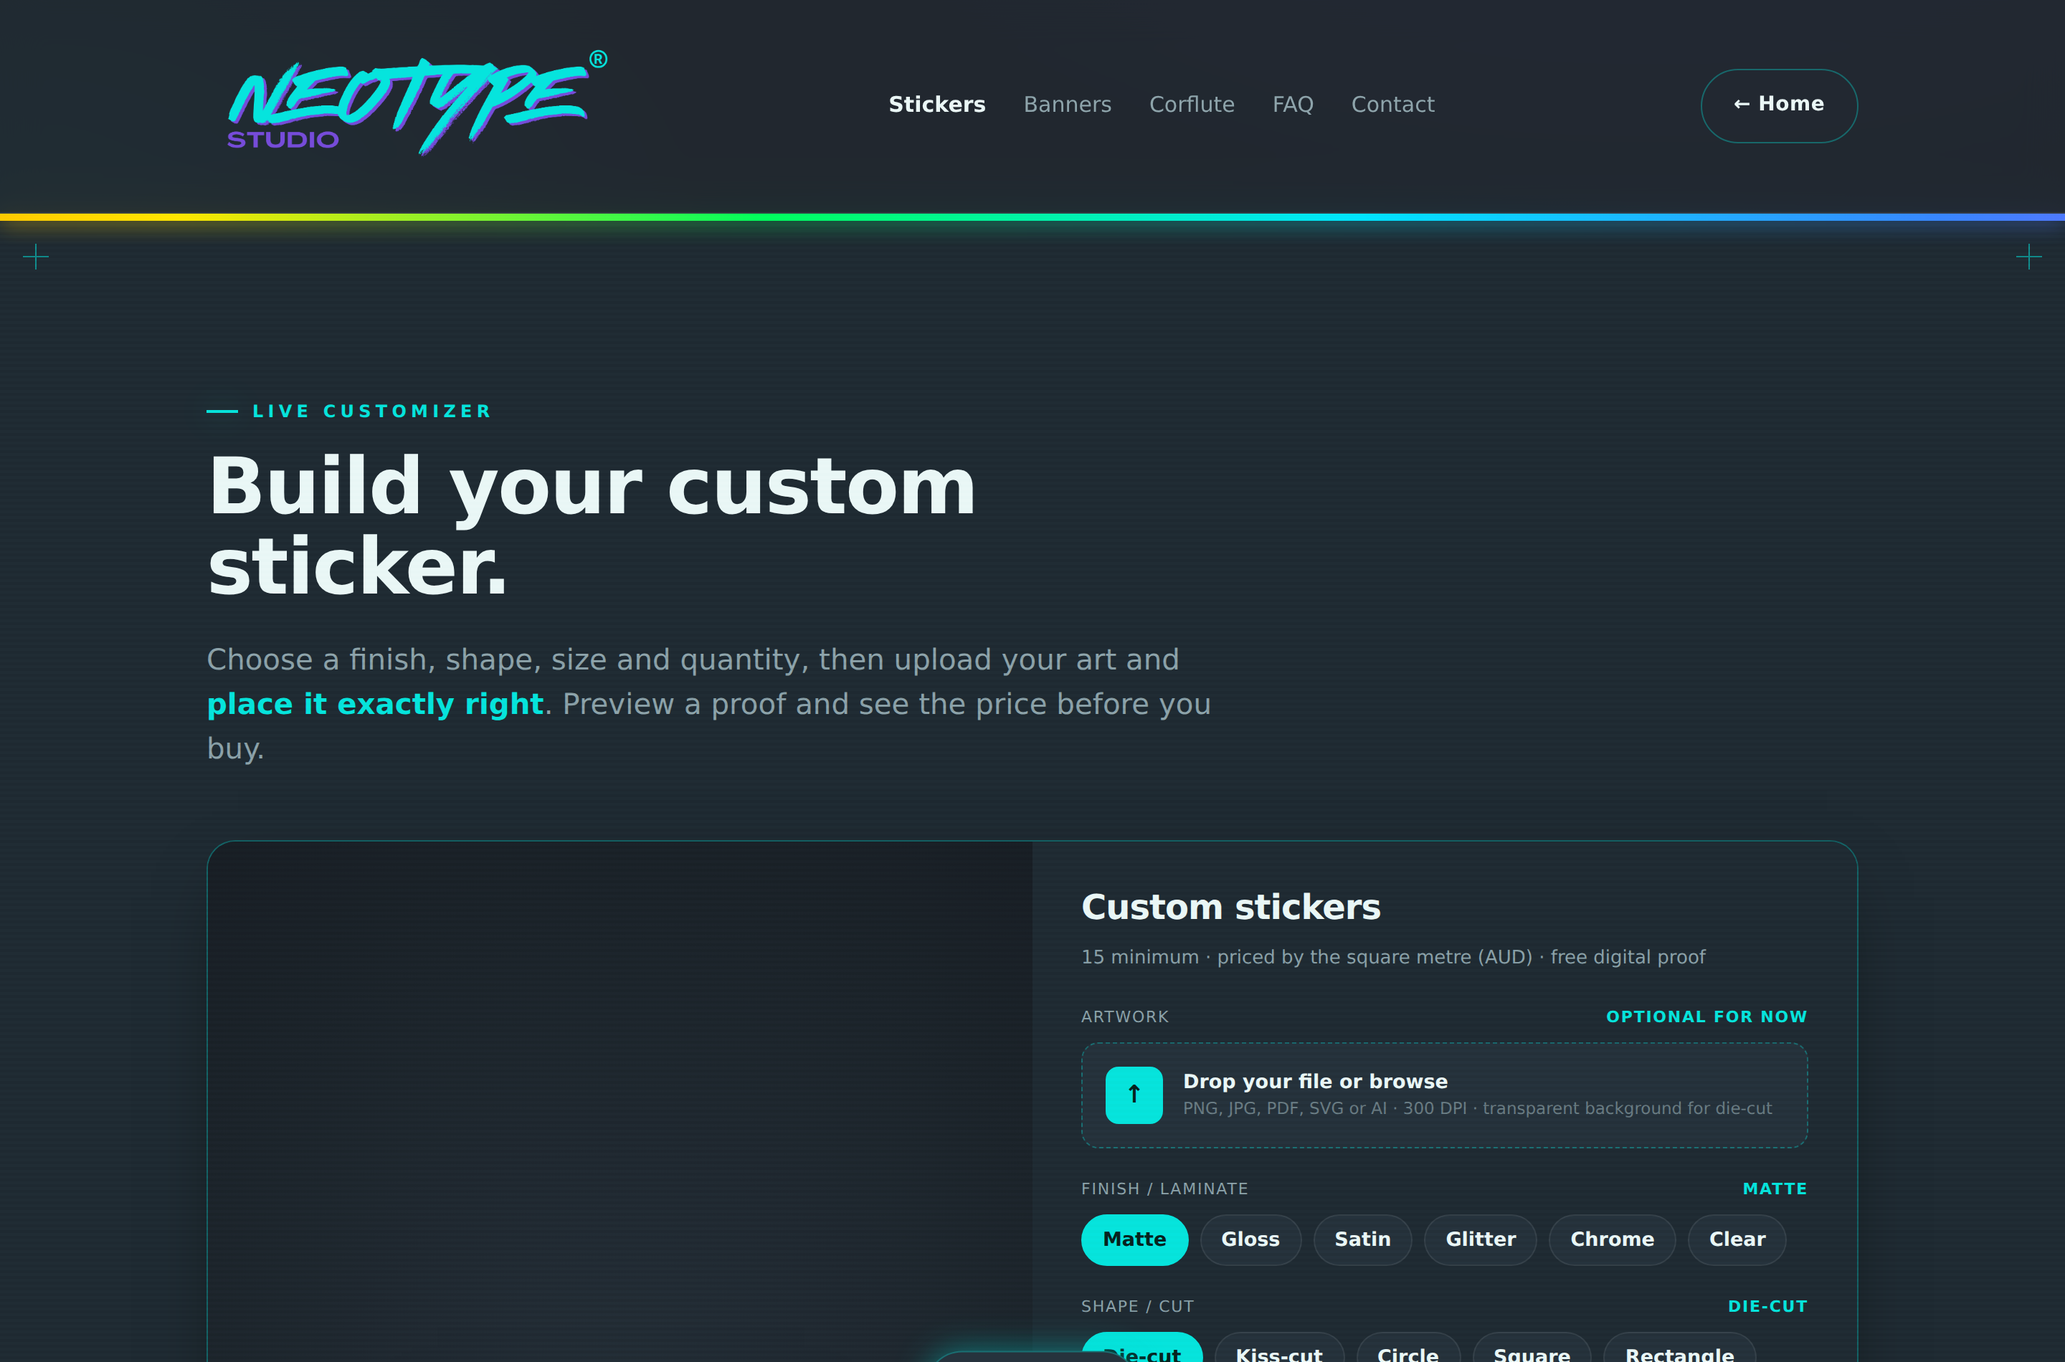
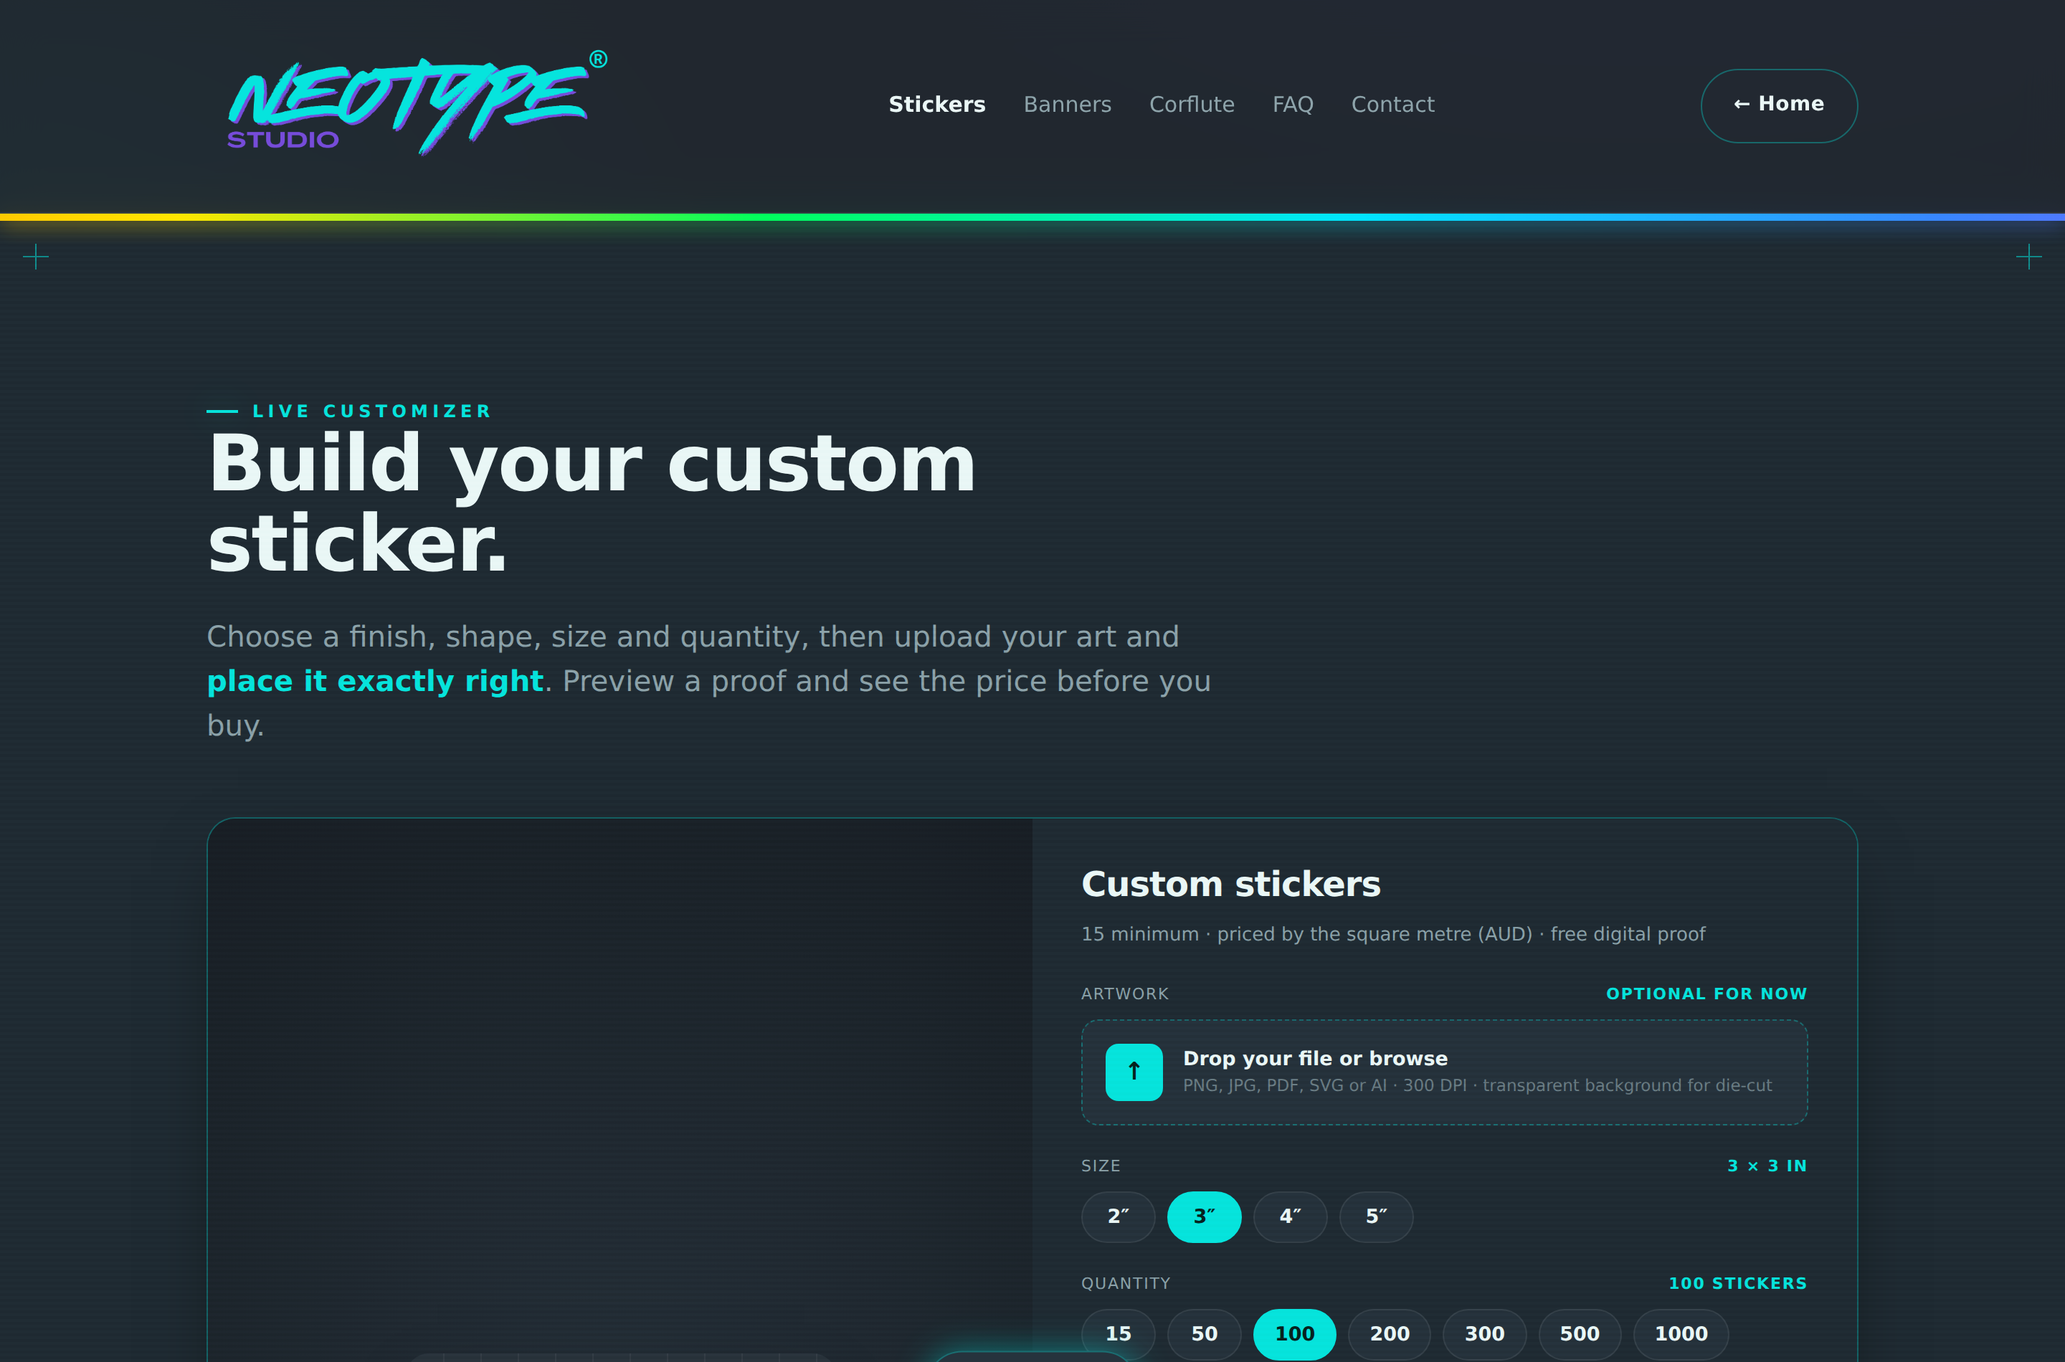
Reorder the customizer, and fix what a sweep of every page found
Field order. Ian asked for "size, qty, finishes" and the builder still led
with finish and shape. A customer arrives knowing they want 100 three-inch
stickers; the finish is what they browse once the price is on screen. Now:
artwork, size, quantity, finish, shape, background, turnaround.

Then a pass over every public page, desktop and phone, which turned up
things that look fine in a screenshot and are not:

  - The three builder pages had NO h1. Their main heading was an h2, so
    every one of them was a page with no top-level heading at all.
  - Ten colour swatches on the customizer were named only by title=, the
    weakest accessible name there is and invisible on touch. They now carry
    aria-label.
  - Both file inputs and the banner/corflute width and height boxes had no
    accessible name whatsoever — the two number fields that decide the size
    of a six-metre banner announced as nothing.
  - index.html's title was "Custom Stickers Brisbane | Die-Cut Vinyl
    Printing - Neotype Studio" and the landing page built to win that exact
    phrase was "Custom Stickers Brisbane - Die-Cut Vinyl Printing | Neotype
    Studio". Two pages competing for one phrase is worse than either
    ranking alone, so the homepage now leads with the brand and the full
    product range, with a description to match.
  - success.html relied on robots.txt alone. Disallow stops the crawl but
    not a URL-only listing for a page someone links to, so it now carries
[…]

diff --git a/customizer.html b/customizer.html
@@ -68,7 +68,7 @@
       <div class="wrap">
         <div class="section-head" style="max-width:720px">
           <span class="eyebrow">Live customizer</span>
-          <h2 class="display-lg" id="cz-h">Build your custom sticker.</h2>
+          <h1 class="display-lg" id="cz-h">Build your custom sticker.</h1>
           <p class="lead">Choose a finish, shape, size and quantity, then upload your art and <b class="tint-teal">place it exactly right</b>. Preview a proof and see the price before you buy.</p>
         </div>
 
@@ -100,8 +100,8 @@
               <div class="ce-row" id="ceBorderColorRow" hidden>
                 <label>Cut colour</label>
                 <div class="ce-swatches" id="borderColorOpts">
-                  <button class="ce-sw" data-bcol="#ffffff" aria-pressed="true" title="White border" style="background:#fff"></button>
-                  <button class="ce-sw" data-bcol="#111318" aria-pressed="false" title="Black border" style="background:#111318"></button>
+                  <button class="ce-sw" data-bcol="#ffffff" aria-pressed="true" title="White border" style="background:#fff" aria-label="White border"></button>
+                  <button class="ce-sw" data-bcol="#111318" aria-pressed="false" title="Black border" style="background:#111318" aria-label="Black border"></button>
                 </div>
               </div>
               <div class="ce-row">
@@ -143,8 +143,37 @@
                   <small>PNG, JPG, PDF, SVG or AI · 300 DPI · transparent background for die-cut</small>
                   <div class="dz-file" id="dzFile" hidden></div>
                 </span>
-                <input type="file" id="fileInput" accept=".png,.jpg,.jpeg,.pdf,.svg,.ai" hidden />
+                <input type="file" id="fileInput" accept=".png,.jpg,.jpeg,.pdf,.svg,.ai" aria-label="Upload your artwork" hidden />
               </div>
+            </div>
+
+            <div class="field">
+              <label>Size <b id="czSizeVal">3 × 3 in</b></label>
+              <div class="opt-row" id="sizeOpts" role="group" aria-label="Size">
+                <button class="opt sz" data-size="2" aria-pressed="false">2″</button>
+                <button class="opt sz" data-size="3" aria-pressed="true">3″</button>
+                <button class="opt sz" data-size="4" aria-pressed="false">4″</button>
+                <button class="opt sz" data-size="5" aria-pressed="false">5″</button>
+              </div>
+            </div>
+
+            <div class="field">
+              <label>Quantity <b id="czQtyVal">100 stickers</b></label>
+              <div class="opt-row" id="qtyOpts" role="group" aria-label="Quantity">
+                <button class="opt sz" data-qty="15" aria-pressed="false">15</button>
+                <button class="opt sz" data-qty="50" aria-pressed="false">50</button>
+                <button class="opt sz" data-qty="100" aria-pressed="true">100</button>
+                <button class="opt sz" data-qty="200" aria-pressed="false">200</button>
+                <button class="opt sz" data-qty="300" aria-pressed="false">300</button>
+                <button class="opt sz" data-qty="500" aria-pressed="false">500</button>
+                <button class="opt sz" data-qty="1000" aria-pressed="false">1000</button>
+              </div>
+              <div class="qty-any">
+                <label for="czQtyAny">Or type any quantity</label>
+                <input type="number" id="czQtyAny" inputmode="numeric" min="15" max="5000" step="1" value="100" aria-describedby="czQtyHelp">
+                <span class="qty-any-unit">stickers</span>
+              </div>
+              <p class="opt-help" id="czQtyHelp">Anything from 15 to 5,000. Need more than that? <a href="index.html#contact">Ask us for a trade price</a>.</p>
             </div>
 
             <div class="field">
@@ -177,48 +206,19 @@
             <div class="field" id="fillField">
               <label>Background <b id="czFillVal">Studio gradient</b></label>
               <div class="opt-row swatch-row" id="fillOpts" role="group" aria-label="Background colour">
-                <button class="fsw fsw-auto" data-fill="auto" aria-pressed="true" title="Studio gradient"></button>
-                <button class="fsw" data-fill="#06e4dd" aria-pressed="false" title="Teal" style="background:#06e4dd"></button>
-                <button class="fsw" data-fill="#764cd9" aria-pressed="false" title="Purple" style="background:#764cd9"></button>
-                <button class="fsw" data-fill="#ec008c" aria-pressed="false" title="Pink" style="background:#ec008c"></button>
-                <button class="fsw" data-fill="#00ff09" aria-pressed="false" title="Green" style="background:#00ff09"></button>
-                <button class="fsw" data-fill="#ffd400" aria-pressed="false" title="Yellow" style="background:#ffd400"></button>
-                <button class="fsw" data-fill="#212830" aria-pressed="false" title="Ink" style="background:#212830"></button>
-                <button class="fsw" data-fill="#ffffff" aria-pressed="false" title="White" style="background:#fff"></button>
+                <button class="fsw fsw-auto" data-fill="auto" aria-pressed="true" title="Studio gradient" aria-label="Studio gradient"></button>
+                <button class="fsw" data-fill="#06e4dd" aria-pressed="false" title="Teal" style="background:#06e4dd" aria-label="Teal"></button>
+                <button class="fsw" data-fill="#764cd9" aria-pressed="false" title="Purple" style="background:#764cd9" aria-label="Purple"></button>
+                <button class="fsw" data-fill="#ec008c" aria-pressed="false" title="Pink" style="background:#ec008c" aria-label="Pink"></button>
+                <button class="fsw" data-fill="#00ff09" aria-pressed="false" title="Green" style="background:#00ff09" aria-label="Green"></button>
+                <button class="fsw" data-fill="#ffd400" aria-pressed="false" title="Yellow" style="background:#ffd400" aria-label="Yellow"></button>
+                <button class="fsw" data-fill="#212830" aria-pressed="false" title="Ink" style="background:#212830" aria-label="Ink"></button>
+                <button class="fsw" data-fill="#ffffff" aria-pressed="false" title="White" style="background:#fff" aria-label="White"></button>
                 <label class="fsw fsw-custom" title="Custom colour">
                   <input type="color" id="fillCustom" value="#30bfbb" aria-label="Custom background colour" />
                 </label>
               </div>
               <p class="opt-help" id="fillHelp">Sets the colour behind your art. Great for a transparent logo.</p>
-            </div>
-
-            <div class="field">
-              <label>Size <b id="czSizeVal">3 × 3 in</b></label>
-              <div class="opt-row" id="sizeOpts" role="group" aria-label="Size">
-                <button class="opt sz" data-size="2" aria-pressed="false">2″</button>
-                <button class="opt sz" data-size="3" aria-pressed="true">3″</button>
-                <button class="opt sz" data-size="4" aria-pressed="false">4″</button>
-                <button class="opt sz" data-size="5" aria-pressed="false">5″</button>
-              </div>
-            </div>
-
-            <div class="field">
-              <label>Quantity <b id="czQtyVal">100 stickers</b></label>
-              <div class="opt-row" id="qtyOpts" role="group" aria-label="Quantity">
-                <button class="opt sz" data-qty="15" aria-pressed="false">15</button>
-                <button class="opt sz" data-qty="50" aria-pressed="false">50</button>
-                <button class="opt sz" data-qty="100" aria-pressed="true">100</button>
-                <button class="opt sz" data-qty="200" aria-pressed="false">200</button>
-                <button class="opt sz" data-qty="300" aria-pressed="false">300</button>
-                <button class="opt sz" data-qty="500" aria-pressed="false">500</button>
-                <button class="opt sz" data-qty="1000" aria-pressed="false">1000</button>
-              </div>
-              <div class="qty-any">
-                <label for="czQtyAny">Or type any quantity</label>
-                <input type="number" id="czQtyAny" inputmode="numeric" min="15" max="5000" step="1" value="100" aria-describedby="czQtyHelp">
-                <span class="qty-any-unit">stickers</span>
-              </div>
-              <p class="opt-help" id="czQtyHelp">Anything from 15 to 5,000. Need more than that? <a href="index.html#contact">Ask us for a trade price</a>.</p>
             </div>
 
             <div class="field">
@@ -324,7 +324,7 @@
   </script>
   <script src="assets/js/pricing-core.js?v=35" defer></script>
   <script src="assets/js/checkout.js?v=32" defer></script>
-  <script src="assets/js/customizer.js?v=35" defer></script>
+  <script src="assets/js/customizer.js?v=36" defer></script>
   <script src="assets/js/main.js?v=33" defer></script>
 </body>
 </html>

diff --git a/index.html b/index.html
@@ -3,8 +3,8 @@
 <head>
   <meta charset="UTF-8" />
   <meta name="viewport" content="width=device-width, initial-scale=1.0" />
-  <title>Custom Stickers Brisbane | Die-Cut Vinyl Printing — Neotype Studio</title>
-  <meta name="description" content="Custom die-cut vinyl stickers printed in Brisbane. Matte, gloss, holographic, chrome and glitter. Upload your art, see the price instantly, free proof." />
+  <title>Neotype Studio — Custom Stickers, Banners &amp; Corflute Signs, Brisbane</title>
+  <meta name="description" content="Brisbane print studio for custom die-cut vinyl stickers, PVC banners and corflute signs. Upload your art, see the price instantly, free proof before we print." />
 
   <link rel="icon" type="image/png" href="assets/img/favicon.png?v=21" />
 
@@ -17,14 +17,14 @@
   <link rel="canonical" href="https://www.neotype.au/" />
   <meta property="og:type" content="website" />
   <meta property="og:site_name" content="Neotype Studio" />
-  <meta property="og:title" content="Custom Stickers Brisbane | Die-Cut Vinyl Printing — Neotype Studio" />
-  <meta property="og:description" content="Custom die-cut vinyl stickers printed in Brisbane. Matte, gloss, holographic, chrome and glitter. Upload your art, see the price instantly, free proof." />
+  <meta property="og:title" content="Neotype Studio — Custom Stickers, Banners &amp; Corflute Signs, Brisbane" />
+  <meta property="og:description" content="Brisbane print studio for custom die-cut vinyl stickers, PVC banners and corflute signs. Upload your art, see the price instantly, free proof before we print." />
   <meta property="og:url" content="https://www.neotype.au/" />
   <meta property="og:image" content="https://www.neotype.au/assets/img/neotype-sticker.png" />
   <meta property="og:locale" content="en_AU" />
   <meta name="twitter:card" content="summary_large_image" />
-  <meta name="twitter:title" content="Custom Stickers Brisbane | Die-Cut Vinyl Printing — Neotype Studio" />
-  <meta name="twitter:description" content="Custom die-cut vinyl stickers printed in Brisbane. Matte, gloss, holographic, chrome and glitter. Upload your art, see the price instantly, free proof." />
+  <meta name="twitter:title" content="Neotype Studio — Custom Stickers, Banners &amp; Corflute Signs, Brisbane" />
+  <meta name="twitter:description" content="Brisbane print studio for custom die-cut vinyl stickers, PVC banners and corflute signs. Upload your art, see the price instantly, free proof before we print." />
   <meta name="twitter:image" content="https://www.neotype.au/assets/img/neotype-sticker.png" />
   <meta name="geo.region" content="AU-QLD" />
   <meta name="geo.placename" content="Brisbane" />

diff --git a/assets/js/largeformat.js b/assets/js/largeformat.js
@@ -74,7 +74,7 @@
           '<span class="dz-txt"><strong>Drop your file or browse</strong><br>' +
           '<small>PNG, JPG, PDF, SVG or AI · print-ready at final size</small>' +
           '<div class="dz-file" id="lfFile" hidden></div></span>' +
-          '<input type="file" id="lfInput" accept=".png,.jpg,.jpeg,.pdf,.svg,.ai" hidden></div>' +
+          '<input type="file" id="lfInput" accept=".png,.jpg,.jpeg,.pdf,.svg,.ai" aria-label="Upload your artwork" hidden></div>' +
         '<div class="cz-editor" id="lfEditor" hidden>' +
           '<div class="ce-hint">✥ Drag the art, use the sliders, or scroll to zoom</div>' +
           '<div class="ce-row"><label for="lfZoom">Zoom</label><input type="range" id="lfZoom" min="0.2" max="4" step="0.01" value="1"></div>' +
@@ -89,8 +89,8 @@
         (presetOpts.length ? '<div class="field"><label>Common sizes</label>' + optRow("lfPresets", presetOpts, "", "data-lfpreset") + "</div>" : "") +
         '<div class="field"><label>Custom size <b id="lfSizeVal"></b></label>' +
           '<div class="lf-dims">' +
-            '<span><input type="number" id="lfW" step="0.05" min="' + META.wRange[0] + '" max="' + META.wRange[1] + '" value="' + state.w + '"> m wide</span>' +
-            '<span><input type="number" id="lfH" step="0.05" min="' + META.hRange[0] + '" max="' + META.hRange[1] + '" value="' + state.h + '"> m tall</span>' +
+            '<span><input type="number" id="lfW" aria-label="Width in metres" step="0.05" min="' + META.wRange[0] + '" max="' + META.wRange[1] + '" value="' + state.w + '"> m wide</span>' +
+            '<span><input type="number" id="lfH" aria-label="Height in metres" step="0.05" min="' + META.hRange[0] + '" max="' + META.hRange[1] + '" value="' + state.h + '"> m tall</span>' +
           '</div>' +
           '<p class="opt-help">Between ' + META.wRange[0] + '–' + META.wRange[1] + ' m wide and ' + META.hRange[0] + '–' + META.hRange[1] + ' m tall.</p>' +
         "</div>" +

diff --git a/corflute.html b/corflute.html
@@ -59,7 +59,7 @@
       <div class="wrap">
         <div class="section-head" style="max-width:720px">
           <span class="eyebrow">Large format</span>
-          <h2 class="display-lg">Corflute signs.</h2>
+          <h1 class="display-lg">Corflute signs.</h1>
           <p class="lead">Rigid, lightweight, weatherproof signboard. Pick a size, thickness and print sides, <b class="tint-teal">upload your art</b>, and see the price before you buy.</p>
         </div>
         <div id="lfRoot"></div>
@@ -110,7 +110,7 @@
   </script>
   <script src="assets/js/pricing-core.js?v=35"></script>
   <script src="assets/js/checkout.js?v=32" defer></script>
-  <script src="assets/js/largeformat.js?v=34" defer></script>
+  <script src="assets/js/largeformat.js?v=36" defer></script>
   <script src="assets/js/main.js?v=33" defer></script>
 </body>
 </html>

diff --git a/banners.html b/banners.html
@@ -59,7 +59,7 @@
       <div class="wrap">
         <div class="section-head" style="max-width:720px">
           <span class="eyebrow">Large format</span>
-          <h2 class="display-lg">Custom banners.</h2>
+          <h1 class="display-lg">Custom banners.</h1>
           <p class="lead">Big, bold and weatherproof. Pick a size, material and finishing, <b class="tint-teal">upload your art</b>, and see the price before you buy.</p>
         </div>
         <div id="lfRoot"></div>
@@ -108,7 +108,7 @@
   </script>
   <script src="assets/js/pricing-core.js?v=35"></script>
   <script src="assets/js/checkout.js?v=32" defer></script>
-  <script src="assets/js/largeformat.js?v=34" defer></script>
+  <script src="assets/js/largeformat.js?v=36" defer></script>
   <script src="assets/js/main.js?v=33" defer></script>
 </body>
 </html>

diff --git a/success.html b/success.html
@@ -3,6 +3,7 @@
 <head>
   <meta charset="UTF-8" />
   <meta name="viewport" content="width=device-width, initial-scale=1.0" />
+  <meta name="robots" content="noindex, follow" />
   <title>Order received — Neotype Studio</title>
   <meta name="description" content="Thanks for your order. We'll email your free proof shortly." />
   <link rel="icon" type="image/png" href="assets/img/favicon.png?v=21" />
